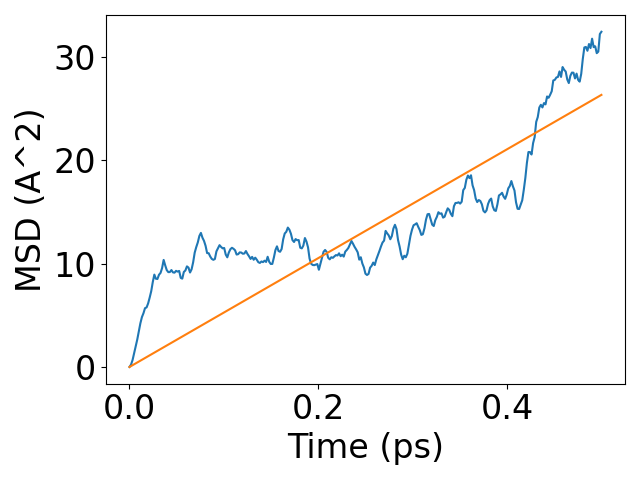
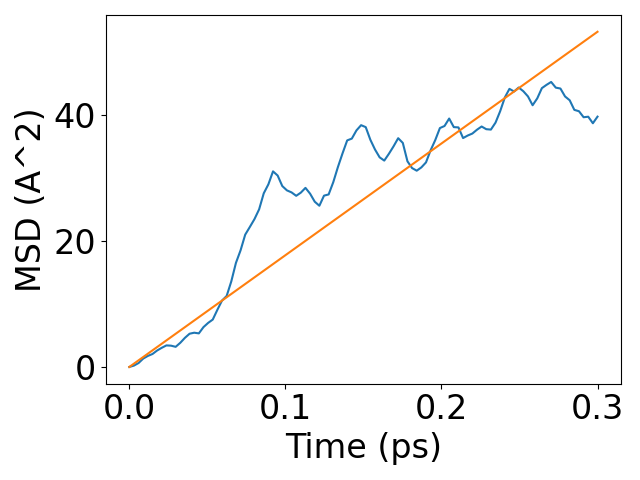
updated

diff --git a/finetuning.py b/finetuning.py
@@ -1,8 +1,6 @@
 import os
 import subprocess
 import time
-# from ase.calculators.singlepoint import SinglePointCalculator
-# from fairchem.core.common.relaxation.ase_utils import OCPCalculator
 # from fairchem.core.common.tutorial_utils import fairchem_main
 from fairchem.core.common.tutorial_utils import generate_yml_config
 from fairchem.core.common.tutorial_utils import train_test_val_split
@@ -17,55 +15,55 @@ pretrained_model = "PaiNN-S2EF-OC20-All"
 # pretrained_model = "GemNet-OC-S2EFS-OC20+OC22"  # takes time
 # pretrained_model = "GemNet-OC-S2EFS-OC22"
 
-checkpoint = model_name_to_local_file(model_name=pretrained_model, local_cache="../pretrained_checkpoints")
+checkpoint_path = model_name_to_local_file(model_name=pretrained_model, local_cache="../pretrained_checkpoints")
 
-use_asedb = True  # when using ASE database
+use_asedb = False  # when using ASE database
+
+update = {"gpus": 0,
+          "trainer": "ocp",
+
+          "optim.eval_every": 1,
+          "optim.max_epochs": 1,  # 10,
+          "optim.num_workers": 0,
+          "optim.batch_size": 40,  # Number of samples in one batch. Smaller is accurate but takes time. Max is data/5.
+
+          "logger": "tensorboard",
+
+          "dataset.train.a2g_args.r_energy": True,
+          "dataset.train.a2g_args.r_forces": True,
+
+          "dataset.val.a2g_args.r_energy": True,
+          "dataset.val.a2g_args.r_forces": True,
+          }
 
 if use_asedb:
     subprocess.run("rm -rf train.db test.db val.db *.db.lock", shell=True)
     train, test, val = train_test_val_split("bulk.db")  # when using ASE database
+    update.update({"task.dataset": "ase_db"})
+    update.update({"dataset.train.src": "train.db"})
+    update.update({"dataset.test.src": "test.db"})
+    update.update({"dataset.test.a2g_args.r_energy": False})
+    update.update({"dataset.test.a2g_args.r_forces": False})
+    update.update({"dataset.val.src": "val.db"})
+else:
+    update.update({"task.dataset": "lmdb"})
+    update.update({"dataset.train.src": "../data/s2ef/mytrain"})
+    update.update({"dataset.val.src": "../data/s2ef/myval"})
 
 yml = "config.yml"
 subprocess.run(["rm", yml])
 
 # --- training and validation data are always necessary!
-generate_yml_config(checkpoint_path=checkpoint, yml=yml,
-                    delete=["slurm", "cmd", "logger", "task",
-                            "dataset", "test_dataset", "val_dataset"],
-                    update={"gpus": 0,
-                            "trainer": "ocp",
+delete = ["slurm", "cmd", "logger", "task", "dataset", "test_dataset", "val_dataset"]
 
-                            # "eval_metrics.primary_metric": "forces_mae",
-
-                            "task.dataset": "ase_db",
-                            # "task.dataset": "lmdb",
-                            "optim.eval_every": 1,
-                            "optim.max_epochs": 2,  # 10,
-                            "optim.num_workers": 0,
-                            "optim.batch_size": 10,  # number of samples in one batch ... 10 is better than 20
-
-                            "logger": "tensorboard",
-
-                            "dataset.train.src": "train.db",
-                            # "dataset.train.src": "../data/s2ef/mytrain",
-                            "dataset.train.a2g_args.r_energy": True,
-                            "dataset.train.a2g_args.r_forces": True,
-
-                            "dataset.test.src": "test.db",
-                            "dataset.test.a2g_args.r_energy": False,
-                            "dataset.test.a2g_args.r_forces": False,
-
-                            "dataset.val.src": "val.db",
-                            # "dataset.val.src": "../data/s2ef/myval",
-                            "dataset.val.a2g_args.r_energy": True,
-                            "dataset.val.a2g_args.r_forces": True,
-                            }
-                    )
+generate_yml_config(checkpoint_path=checkpoint_path, yml=yml, delete=delete, update=update)
 
 print(f"config yaml file seved to {yml}.")
 
 t0 = time.time()
-subprocess.run(f"python ../main.py --mode train --config-yml {yml} --checkpoint {checkpoint} &> train.txt", shell=True)
+subprocess.run(f"python ./fairchem_main.py --mode train --config-yml {yml} --checkpoint {checkpoint_path}"
+               f"&> train.txt", shell=True)
+
 print(f"Elapsed time = {time.time() - t0:1.1f} seconds")
 
 cpline  = subprocess.check_output(["grep", "checkpoint_dir", "train.txt"])

diff --git a/diffusion.py b/diffusion.py
@@ -7,7 +7,6 @@ import statsmodels.api as sm
 import subprocess
 from ase import Atom
 from ase import units
-# from ase.calculators.emt import EMT
 from ase.io import read
 from ase.io import write
 from ase.md.langevin import Langevin
@@ -21,23 +20,32 @@ from fairchem.core.common.relaxation.ase_utils import OCPCalculator
 # checkpoint_path = model_name_to_local_file(model_name=model_name, local_cache="../checkpoints")
 
 parser = argparse.ArgumentParser()
-parser.add_argument("--maxtime_ps", default=1)
+parser.add_argument("--maxtime_ps", default=1.0)
 parser.add_argument("--show_plot", action="store_true")
+parser.add_argument("--trajectory_file", default="test.traj")
+parser.add_argument("--temperature_K", default=1000)
+parser.add_argument("--timestep", default=1.0)
+
 args = parser.parse_args()
 
 maxtime_ps = float(args.maxtime_ps)
 show_plot = args.show_plot
+traj_name = args.trajectory_file
+temperature_K = float(args.temperature_K)
+timestep = float(args.timestep*units.fs)
 
 cpline  = subprocess.check_output(["grep", "checkpoint_dir", "train.txt"])
 cpdir   = cpline.decode().strip().replace(" ", "").split(":")[-1]
 # checkpoint_path = cpdir + "/checkpoint.pt"
 checkpoint_path = cpdir + "/best_checkpoint.pt"
 
+subprocess.run("rm ./md.log", shell=True)  # delete old log file
+
 calc = OCPCalculator(checkpoint_path=checkpoint_path, cpu=False)
 
 bulk = read("BaZrO3.cif")
 ###
-replicate_size = 6  # 10 is out of memory. 8 - 1hours
+replicate_size = 2  # 8
 each = 10  # step to save trajectory
 ###
 replicate = [replicate_size]*3
@@ -58,11 +66,8 @@ bulk.calc = calc
 tags = np.ones(len(bulk))
 bulk.set_tags(tags)
 
-traj_name = "test.traj"
-temperature_K = 1000
-timestep = 1.0*units.fs  # in fs. Use 1 or 0.5 fs.
 t0 = 0.1  # starting time for taking MSD [ps].
-loginterval = 10
+loginterval = 10  # interval to write trajectory file [steps].
 
 maxtime_ps = maxtime_ps + t0  # extend maxtime_ps as we discard the initial t0 ps
 

diff --git a/make_lmdb_from_outcar.py b/make_lmdb_from_outcar.py
@@ -42,14 +42,9 @@ tags = raw_data[0].get_tags()
 data_objects = a2g.convert_all(raw_data, disable_tqdm=True)
 
 for fid, data in tqdm(enumerate(data_objects), total=len(data_objects)):
-    # assign sid
-    data.sid = torch.LongTensor([0])
-
-    # assign fid
-    data.fid = torch.LongTensor([fid])
-
-    # assign tags, if available
-    data.tags = torch.LongTensor(tags)
+    data.sid = torch.LongTensor([0])    # assign sid
+    data.fid = torch.LongTensor([fid])  # assign fid
+    data.tags = torch.LongTensor(tags)  # assign tags, if available
 
     # no neighbor edge case check
     if data.edge_index.shape[1] == 0:

diff --git a/fairchem_main.py b/fairchem_main.py
@@ -1,0 +1,8 @@
+"""For backwards compatibility"""
+
+from __future__ import annotations
+
+if __name__ == "__main__":
+    from fairchem.core._cli import main
+
+    main()
